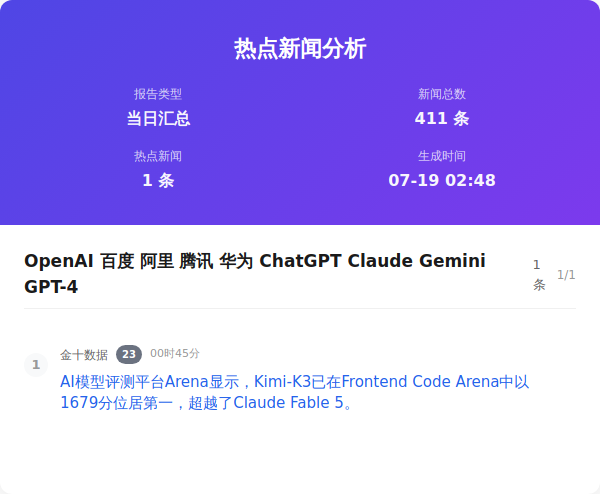
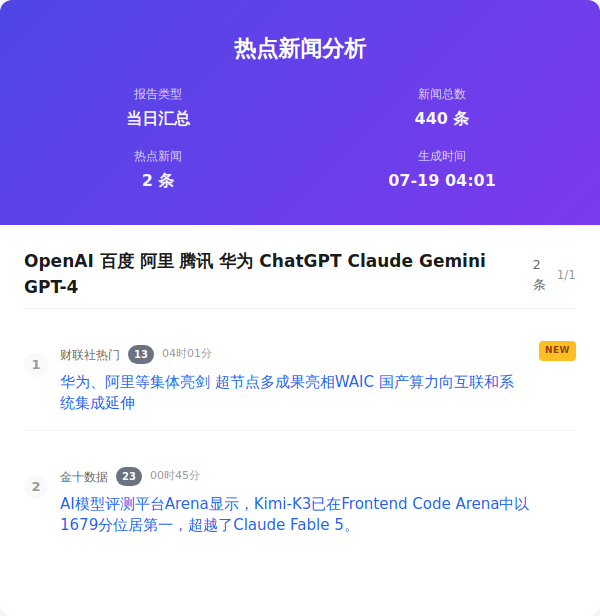
Auto update by GitHub Actions at Sun Jul 19 04:01:49 CST 2026

diff --git a/output/2026年07月19日/html/当日汇总.html b/output/2026年07月19日/html/当日汇总.html
@@ -357,15 +357,15 @@
                     </div>
                     <div class="info-item">
                         <span class="info-label">新闻总数</span>
-                        <span class="info-value">411 条</span>
+                        <span class="info-value">440 条</span>
                     </div>
                     <div class="info-item">
                         <span class="info-label">热点新闻</span>
-                        <span class="info-value">1 条</span>
+                        <span class="info-value">2 条</span>
                     </div>
                     <div class="info-item">
                         <span class="info-label">生成时间</span>
-                        <span class="info-value">07-19 02:48</span>
+                        <span class="info-value">07-19 04:01</span>
                     </div>
                 </div>
             </div>
@@ -375,12 +375,22 @@
                     <div class="word-header">
                         <div class="word-info">
                             <div class="word-name">OpenAI 百度 阿里 腾讯 华为 ChatGPT Claude Gemini GPT-4</div>
-                            <div class="word-count ">1 条</div>
+                            <div class="word-count ">2 条</div>
                         </div>
                         <div class="word-index">1/1</div>
                     </div>
-                    <div class="news-item ">
+                    <div class="news-item new">
                         <div class="news-number">1</div>
+                        <div class="news-content">
+                            <div class="news-header">
+                                <span class="source-name">财联社热门</span><span class="rank-num ">13</span><span class="time-info">04时01分</span>
+                            </div>
+                            <div class="news-title"><a href="https://www.cls.cn/detail/2430308" target="_blank" class="news-link">华为、阿里等集体亮剑 超节点多成果亮相WAIC 国产算力向互联和系统集成延伸</a>
+                            </div>
+                        </div>
+                    </div>
+                    <div class="news-item ">
+                        <div class="news-number">2</div>
                         <div class="news-content">
                             <div class="news-header">
                                 <span class="source-name">金十数据</span><span class="rank-num ">23</span><span class="time-info">00时45分</span>